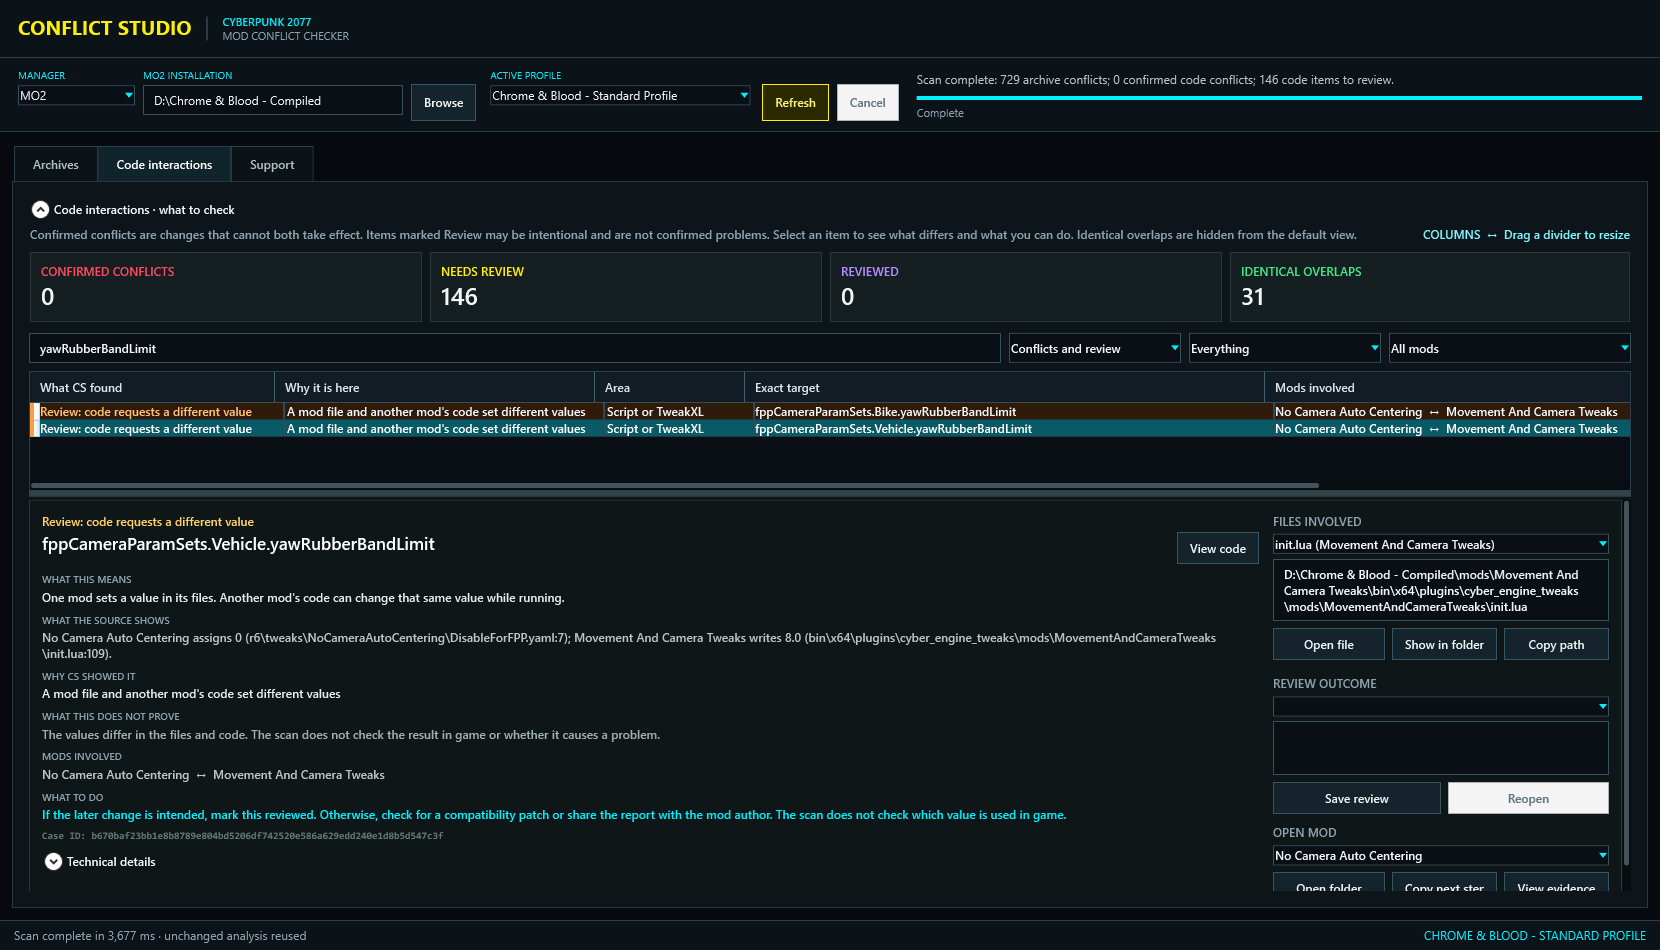
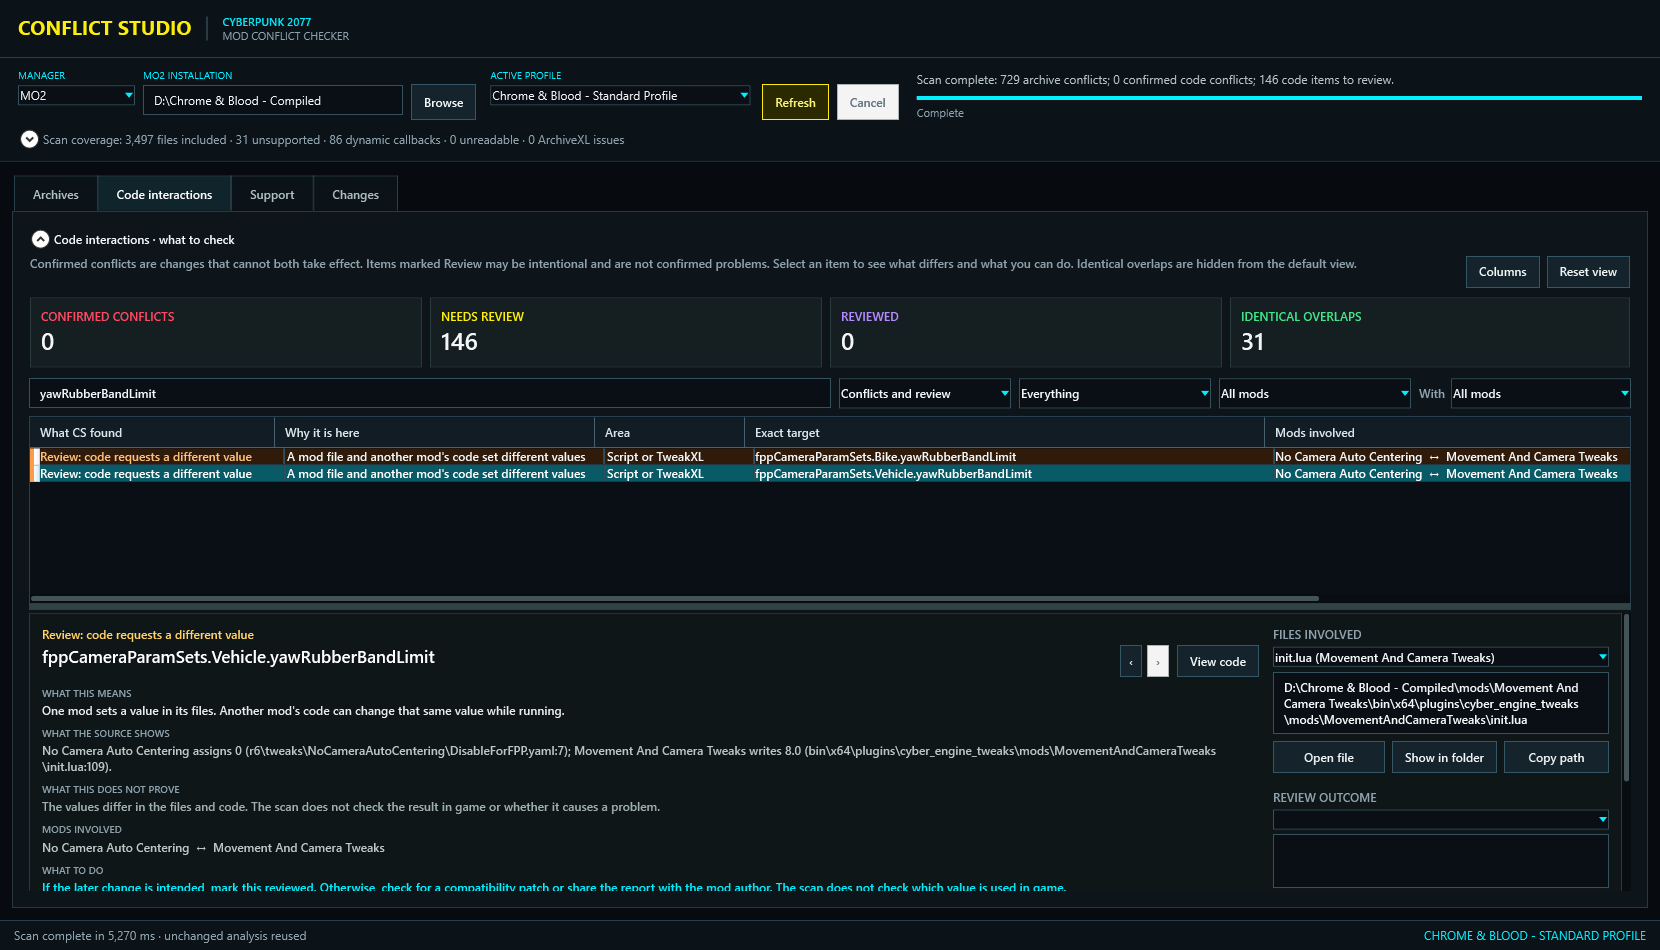
Prepare Conflict Studio 1.0.0

diff --git a/tests/ConflictStudio.App.Tests/DiagnosticLogTests.cs b/tests/ConflictStudio.App.Tests/DiagnosticLogTests.cs
@@ -117,7 +117,7 @@ $runner = {
     return 0
 }
 try {
-    & $scriptPath -RepositoryRoot $repositoryRoot -OutputRoot $outputRoot -CommandRunner $runner
+    & $scriptPath -Version '0.5.0' -RepositoryRoot $repositoryRoot -OutputRoot $outputRoot -CommandRunner $runner
     exit 9
 }
 catch {
@@ -144,7 +144,7 @@ catch {
     [TestMethod]
     public void ApplicationAssemblyUsesThePublishedProductVersion()
     {
-        Assert.AreEqual("0.5.0", typeof(MainWindow).Assembly.GetName().Version?.ToString(3));
+        Assert.AreEqual("1.0.0", typeof(MainWindow).Assembly.GetName().Version?.ToString(3));
     }
 
     private static string RepositoryRoot()

diff --git a/README.md b/README.md
@@ -2,7 +2,7 @@
 
 Conflict Studio shows what is happening inside one Cyberpunk 2077 mod profile. It reads MO2, Vortex, or the deployed game folder and traces archive order, loose files, REDmods, RedScript, CET hooks, TweakXL changes, and ArchiveXL manifests.
 
-This is a beta. Keep a backup and read the preview before changing archive order.
+Read the preview before changing archive order. The application backs up each applied order and offers Undo.
 
 ## What it does
 
@@ -10,11 +10,14 @@ This is a beta. Keep a backup and read the preview before changing archive order
 - Finds loose files installed by more than one active mod.
 - Separates replaced methods, wrappers, CET callbacks, and TweakXL changes instead of calling every shared target a conflict.
 - Opens the exact recorded operations behind supported code findings, with highlighted source and expandable context.
+- Lists the contributors to a code finding, searches source text, and follows supported local TweakXL record references.
+- Filters findings by a pair of mods while keeping other contributors visible.
 - Shows the selected source-file path and can open the file, show it in its folder, or copy the path.
 - Lets you show non-conflicting files only inside archives that also contain an overlap.
 - Previews archive-order changes before writing anything.
 - Backs up and verifies `modlist.txt`, then offers Undo.
 - Exports a privacy-filtered support report when something goes wrong.
+- Saves reviews, open notes and view preferences for each profile, and compares saved scans in Changes.
 
 Conflict Studio does not decide that two mods are compatible or incompatible. A shared method or record is only a place to inspect. Compile results, the loaded game state, and an in-game reproduction still matter.
 
@@ -42,7 +45,7 @@ See [GitHub releases](https://github.com/qcargile/Cyberpunk-Conflict-Studio/rele
 
 ## Install
 
-Download `Cyberpunk-Conflict-Studio-0.5.0-Nexus.zip` from Nexus Mods.
+The release ZIP is `Cyberpunk-Conflict-Studio-1.0.0.zip`. The same package supports MO2, Vortex and manual installations.
 
 ### Vortex
 
@@ -72,10 +75,10 @@ Run `ConflictStudio.exe` from the extracted folder, choose Manual, and select th
 The public package is a self-contained Windows x64 executable:
 
 ```powershell
-.\scripts\publish-win-x64.ps1 -Version 0.5.0
+.\scripts\publish-win-x64.ps1 -Version 1.0.0
 ```
 
-The script writes the release outside the repository and verifies the package manifest and ZIP contents. Release settings live in `release/0.5.0.json`.
+The script writes the release outside the repository and verifies the package manifest and ZIP contents. Release settings live in `release/1.0.0.json`.
 
 ## Credits
 

diff --git a/docs/design/product-contract.md b/docs/design/product-contract.md
@@ -33,4 +33,4 @@ The remaining App history/view/review integration returns to that baseline. Exis
 
 The next work should improve conflict accuracy, explanations, source navigation, responsiveness and error recovery within the existing inspector. A roadmap milestone does not justify another subsystem. New workflows require a concrete user problem and a proportionate solution.
 
-This is a removal contract, not a public-release certification. The executable version and public 0.5.0 ZIP are not changed by the removal.
+Release 1.0 finalizes these existing workflows. The completed detector parity work and source/UI reviews remain the functional baseline. Release preparation updates version metadata, documentation and screenshots; the existing publisher verifies the executable, Vortex identity, source commit and package hashes. It adds no detector or investigation subsystem. The previous public 0.5.0 ZIP is retained.
